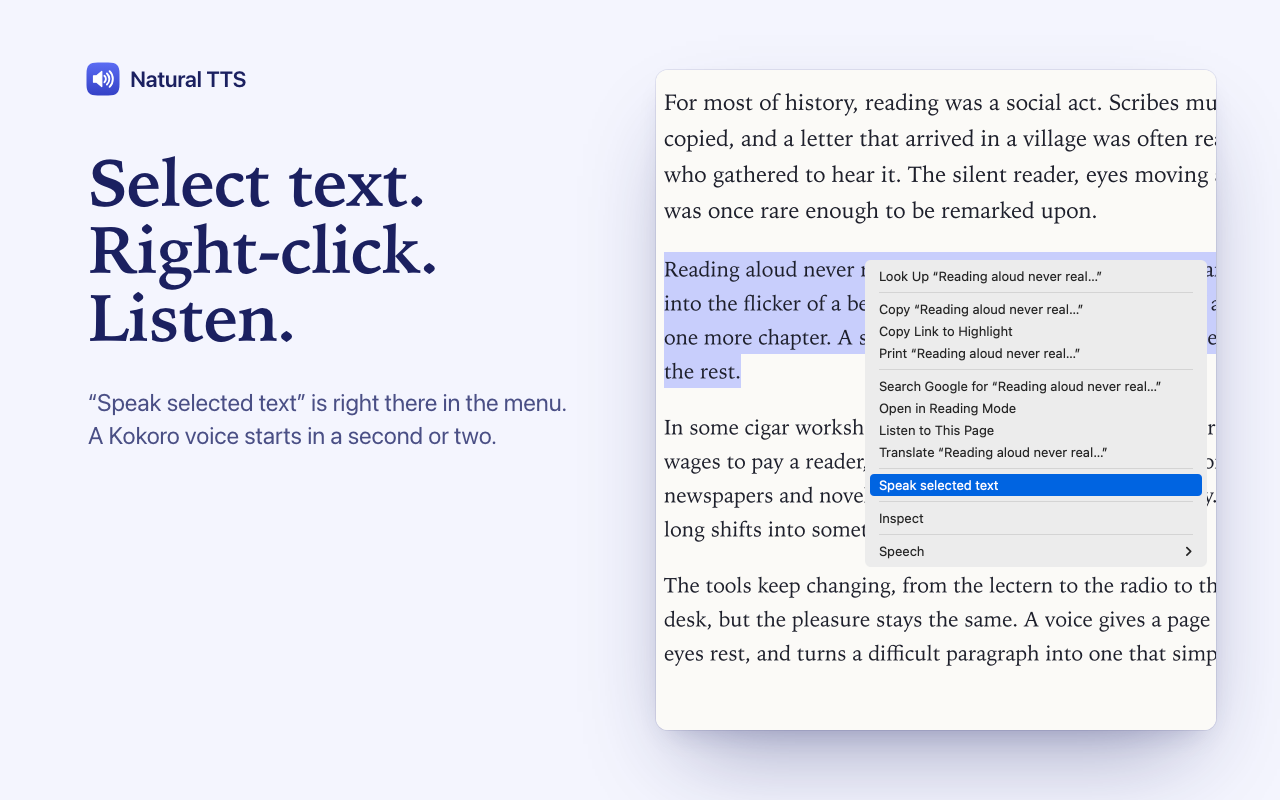
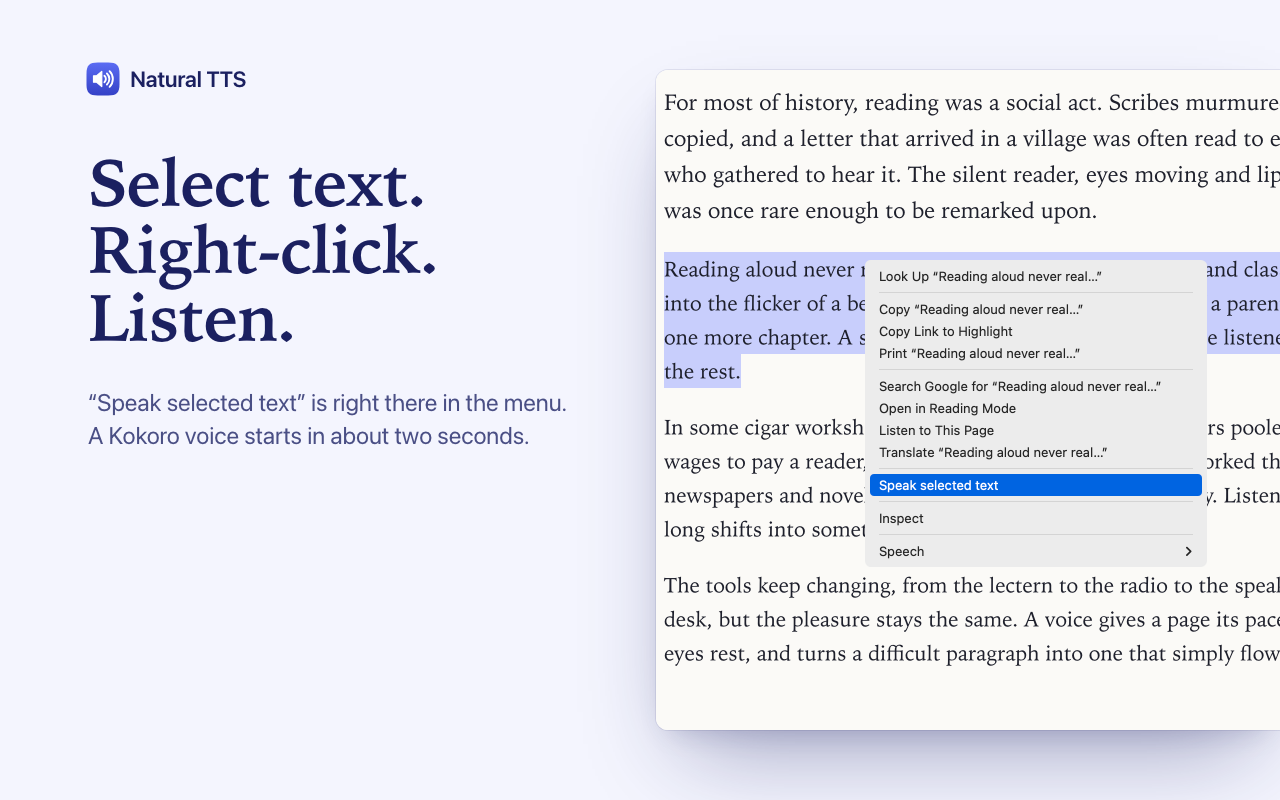
fix(store): store images show the v1.5.0 popup, shot 1 bleeds
Every store image embedded the older popup, so the listing would have
shown a UI the uploaded package does not have. The two speaking inputs
were captured again from the shipping popup and every image re-rendered.
Screenshot 1's capture now runs off the image's right edge, square
there, so cut lines read as a crop and not as overflow (a 624 CSS px
crop of the same menu capture), and its sub-line says about two seconds,
which holds for the pictured paragraph.

Changed region(s): [[0.9375, 0.125, 1.0, 0.9375], [0.25, 0.5312, 0.4062, 0.5625]]

diff --git a/scripts/capture/cws/shot1.html b/scripts/capture/cws/shot1.html
@@ -1,16 +1,17 @@
 <!doctype html><meta charset=utf-8><link rel=stylesheet href=base.css>
 <!-- Store screenshot 1: "Select text. Right-click. Listen." GUI PASS ONLY: needs contextmenu-crop.png, the real
      native context menu over the demo article with "Speak selected text" highlighted (scripts/capture/GUI_PASS.md).
-     The crop is fitted into the right-hand 560x660 box whatever its aspect; LOOK at the render and adjust
-     object-position if the menu item is not in view. -->
+     The crop (624x660 CSS at 2x) fills a box that bleeds off the canvas's right edge, so the article's lines are cut
+     by the edge of the image, as a crop, and never by a rounded, bordered card edge (which reads as overflow). LOOK at
+     the render and adjust object-position if the menu item is not in view. -->
 <style>body{width:1280px;height:800px}
 .brand{left:88px;top:64px}
 h1{position:absolute;left:88px;top:150px;width:520px;font-size:66px}
 .sub{position:absolute;left:88px;top:386px;width:480px}
-.frame{position:absolute;left:656px;top:70px;width:560px;height:660px;border-radius:12px;overflow:hidden;background:#fff;
+.frame{position:absolute;left:656px;top:70px;width:624px;height:660px;border-radius:12px 0 0 12px;overflow:hidden;background:#fff;
   box-shadow:0 44px 90px -30px rgba(27,32,96,.42),0 12px 28px -14px rgba(27,32,96,.22),0 0 0 1px rgba(27,32,96,.09)}
 .frame img{width:100%;height:100%;object-fit:cover;object-position:right center;display:block}</style>
 <div class=brand><img src=icon.svg alt="">Natural TTS</div>
 <h1>Select text.<br>Right-click.<br>Listen.</h1>
-<p class=sub>“Speak selected text” is right there in the menu. A Kokoro voice starts in a second or two.</p>
+<p class=sub>“Speak selected text” is right there in the menu. A Kokoro voice starts in about two seconds.</p>
 <div class=frame><img src=contextmenu-crop.png alt=""></div>
